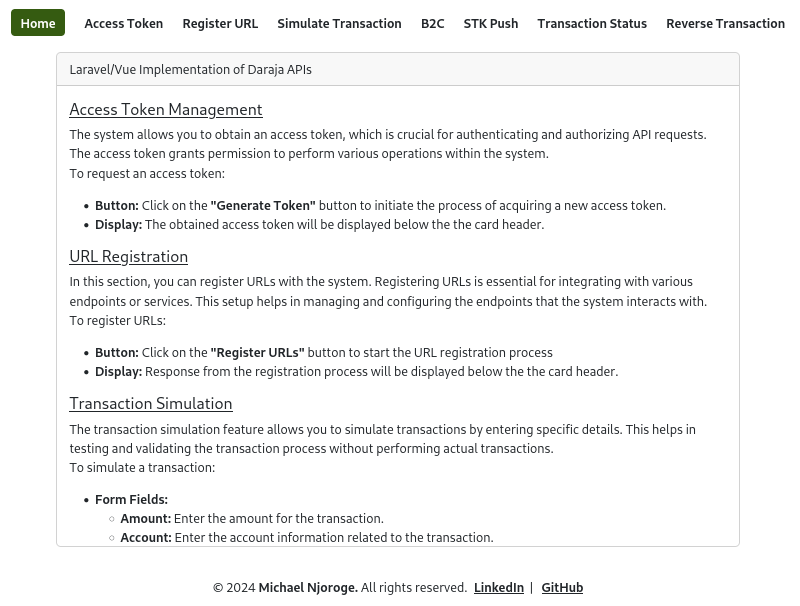
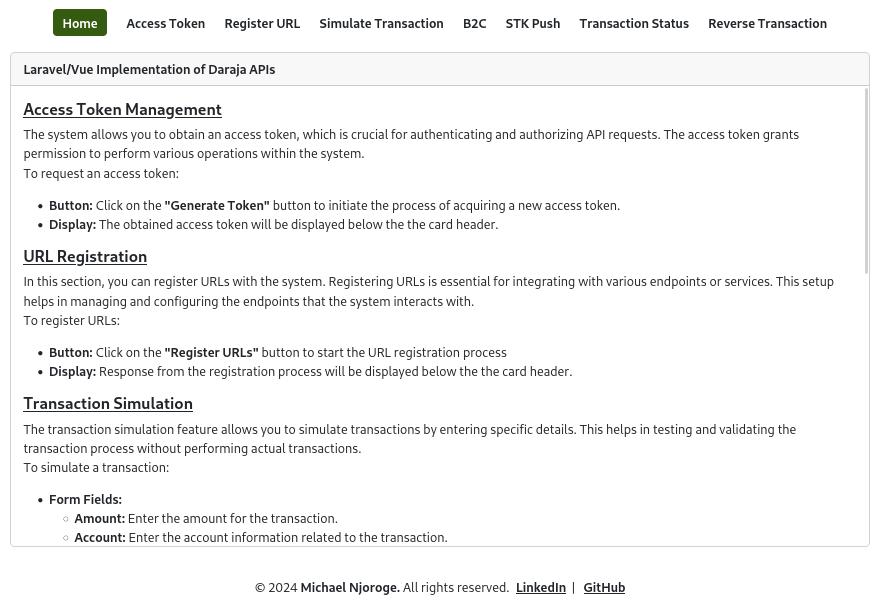
final commit on intergration on mpesa-stk apis with vue

diff --git a/src/views/B2CPage.vue b/src/views/B2CPage.vue
@@ -1,8 +1,8 @@
 <template>
   <div class="container">
     <TopNav />
-    <div class="row my-4">
-      <div class="mx-auto col-sm-8">
+    <div class="row my-2">
+      <div class="mx-auto col-sm-10">
         <div class="card">
           <div class="card-header">
             B2C Simulation
@@ -16,21 +16,21 @@
               <div v-else class="alert alert-info text-center">Fill the form and click the button to simulate B2C.</div>
             </div>
             <form @submit.prevent="simulateb2c" id="b2c-form">
-              <div class="form-group my-2">
-                <label for="amount">Amount</label>
-                <input v-model="form.amount" type="number" min="10" name="amount" required class="form-control">
+              <div class="form-group my-3">
+                <label for="amount">Amount:</label>
+                <input v-model="form.amount" type="number" min="10" placeholder="Enter Amount" name="amount" required class="form-control">
               </div>
-              <div class="form-group my-2">
-                <label for="phone">Phone</label>
-                <input v-model="form.phone" type="number" name="phone" disabled class="form-control">
+              <div class="form-group my-3">
+                <label for="phone">Phone:</label>
+                <input v-model="form.phone" type="number" placeholder="xxxx-xxx-xxx" name="phone" disabled class="form-control">
               </div>
-              <div class="form-group my-2">
-                <label for="occasion">Occasion</label>
-                <input v-model="form.occasion" type="text" name="occasion" required class="form-control">
+              <div class="form-group my-3">
+                <label for="occasion">Occasion:</label>
+                <input v-model="form.occasion" type="text" placeholder="Enter Sample Occasion" name="occasion" required class="form-control">
               </div>
-              <div class="form-group my-2">
-                <label for="remarks">Remarks</label>
-                <input v-model="form.remarks" type="text" name="remarks" required class="form-control">
+              <div class="form-group my-3">
+                <label for="remarks">Remarks:</label>
+                <input v-model="form.remarks" type="text" placeholder="Enter Sample Remark" name="remarks" required class="form-control">
               </div>
               <button id="simulateb2c" type="submit" class="btn btn-primary w-100 mt-2" :disabled="isLoading">
                 <div v-if="isLoading" class="text-center">
@@ -93,4 +93,7 @@
     white-space: pre-wrap;
     word-wrap: break-word;
   }
+   label,.card-header{
+    font-weight: bold;
+}
 </style>

diff --git a/src/views/STKPage.vue b/src/views/STKPage.vue
@@ -1,8 +1,8 @@
 <template>
   <div class="container">
     <TopNav />
-    <div class="row my-4">
-      <div class="mx-auto col-sm-8">
+    <div class="row my-2">
+      <div class="mx-auto col-sm-10">
         <div class="card">
           <div class="card-header">
             STK Simulation
@@ -16,17 +16,17 @@
               <div v-else class="alert alert-info text-center">Fill the form and click the button to receive STK prompt.</div>
             </div>
             <form @submit.prevent="simulateSTK" id="stk-form">
-              <div class="form-group my-2">
-                <label for="phone">Phone</label>
-                <input v-model="form.phone" type="number" name="phone" class="form-control" required>
+              <div class="form-group my-3">
+                <label for="phone">Phone:</label>
+                <input v-model="form.phone" type="number" placeholder="Enter Phone No." name="phone" class="form-control" required>
               </div>
-              <div class="form-group">
-                <label for="amount">Amount</label>
-                <input v-model="form.amount" type="number" name="amount" class="form-control" required>
+              <div class="form-group my-3">
+                <label for="amount">Amount:</label>
+                <input v-model="form.amount" type="number" placeholder="Enter Amount" name="amount" class="form-control" required>
               </div>
-              <div class="form-group my-2">
-                <label for="account">Account</label>
-                <input v-model="form.account" type="text" name="account" class="form-control" required>
+              <div class="form-group my-3">
+                <label for="account">Account:</label>
+                <input v-model="form.account" type="text" name="account" placeholder="Enter Account No." class="form-control" required>
               </div>
               <button id="simulatestk" type="submit" class="btn btn-primary w-100 mt-2" :disabled="isLoading">
                 <div v-if="isLoading" class="text-center">
@@ -88,4 +88,7 @@
     white-space: pre-wrap;
     word-wrap: break-word;
   }
+  label,.card-header{
+    font-weight: bold;
+}
 </style>

diff --git a/src/views/SimulateTransaction.vue b/src/views/SimulateTransaction.vue
@@ -1,9 +1,9 @@
 <template>
 <div class="container">
         <TopNav />
-        <div class="row mt-4">
-            <div class="mx-auto col-sm-8">
-             <div class="card my-4">
+        <div class="row mt-2">
+            <div class="mx-auto col-sm-10">
+             <div class="card my-2">
                 <div class="card-header">
                    Simulate Transaction
                 </div>
@@ -16,13 +16,13 @@
                         <div v-else class="alert alert-info text-center">Fill the Form and Click the button to Simulate Transaction.</div>
                     </div>
                     <form action="" @submit.prevent="simulateTransaction">
-                        <div class="form-group">
-                            <label for="amount">Amount</label>
-                            <input v-model="form.amount" type="number" name="amount" class="form-control" required>
+                        <div class="form-group my-3">
+                            <label for="amount">Amount:</label>
+                            <input v-model="form.amount" type="number" placeholder="Enter Amount" name="amount" class="form-control" required>
                         </div>
-                         <div class="form-group my-2">
-                            <label for="account">Account</label>
-                            <input v-model="form.account" type="text" name="account" class="form-control" required>
+                         <div class="form-group my-3">
+                            <label for="account">Account:</label>
+                            <input v-model="form.account" type="text" placeholder="Enter Account No." name="account" class="form-control" required>
                         </div>
                         <button type="submit" id="simulate" class="btn btn-primary w-100 mt-2" :disabled="isLoading">
                             <div v-if="isLoading" class="text-center">
@@ -78,4 +78,8 @@ const formattedResponse = computed(() => {
 
 </script>
 
-<style scoped></style>
+<style scoped>
+  label,.card-header{
+    font-weight: bold;
+}
+</style>

diff --git a/src/views/ReversalTransaction.vue b/src/views/ReversalTransaction.vue
@@ -1,8 +1,8 @@
 <template>
   <div class="container">
     <TopNav />
-    <div class="row my-4">
-      <div class="mx-auto col-sm-8">
+    <div class="row my-2">
+      <div class="mx-auto col-sm-10">
         <div class="card">
           <div class="card-header">
             Reverse Transaction
@@ -16,13 +16,13 @@
               <div v-else class="alert alert-info text-center">Fill the form and click the button to reverse transaction.</div>
             </div>
             <form @submit.prevent="reverseTransaction" id="stk-form">
-              <div class="form-group my-2">
-                <label for="transactionid">Transaction Id</label>
-                <input v-model="form.transactionid" type="text" name="transactionid" class="form-control" required>
+              <div class="form-group my-3">
+                <label for="transactionid">Transaction Id:</label>
+                <input v-model="form.transactionid" type="text" placeholder="Enter Transaction Id" name="transactionid" class="form-control" required>
               </div>
-              <div class="form-group my-2">
-                <label for="amount">Amount</label>
-                <input v-model="form.amount" type="number" name="amount" class="form-control" required>
+              <div class="form-group my-3">
+                <label for="amount">Amount:</label>
+                <input v-model="form.amount" type="number" name="amount" placeholder="Enter Amount" class="form-control" required>
               </div>
               <button id="simulatestk" type="submit" class="btn btn-primary w-100 mt-2" :disabled="isLoading">
                 <div v-if="isLoading" class="text-center">
@@ -82,5 +82,8 @@
   .text-center pre {
     white-space: pre-wrap;
     word-wrap: break-word;
+  }
+  label,.card-header{
+    font-weight: bold;
   }
 </style>

diff --git a/src/views/TransactionStatus.vue b/src/views/TransactionStatus.vue
@@ -1,8 +1,8 @@
 <template>
   <div class="container">
     <TopNav />
-    <div class="row my-4">
-      <div class="mx-auto col-sm-8">
+    <div class="row my-2">
+      <div class="mx-auto col-sm-10">
         <div class="card">
           <div class="card-header">
             Transaction Status
@@ -17,8 +17,8 @@
             </div>
             <form @submit.prevent="transactionStatus" id="stk-form">
               <div class="form-group my-2">
-                <label for="transactionid">Transaction Id</label>
-                <input v-model="form.transactionid" type="text" name="transactionid" class="form-control" required>
+                <label for="transactionid">Transaction Id:</label>
+                <input v-model="form.transactionid" type="text" placeholder="Enter Transaction Id" name="transactionid" class="form-control" required>
               </div>
               <button id="simulatestk" type="submit" class="btn btn-primary w-100 mt-2" :disabled="isLoading">
                 <div v-if="isLoading" class="text-center">
@@ -78,4 +78,7 @@
     white-space: pre-wrap;
     word-wrap: break-word;
   }
+  label,.card-header{
+    font-weight: bold;
+}
 </style>

diff --git a/src/views/HomePage.vue b/src/views/HomePage.vue
@@ -2,7 +2,7 @@
 <div class="container">
         <TopNav />
         <div class="row mt-2">
-            <div class="mx-auto col-sm-8">
+            <div class="mx-auto col-sm-10">
             <div class="card">
                 <div class="card-header">
                     Laravel/Vue Implementation of Daraja APIs
@@ -81,9 +81,9 @@
 
                   <!-- Regards -->
                   <p class="mt-4 d-flex flex-column">
-                    Best regards,
+                    <b>Best regards,</b>
                     <a style="text-decoration: none;" href="mailto:mikethecoder12@gmail.com" target="_blank">mikethecoder12@gmail.com</a>
-                    Michael Njoroge
+                    <b>Michael Njoroge</b>
                   </p>
 
                 </div>
@@ -101,6 +101,7 @@
 <style scoped>
   .sub-title{
     text-decoration: underline;
+    font-weight: bold;
   }
   .scrollable-content {
     max-height: 575px;
@@ -109,4 +110,7 @@
   a:hover{
     text-decoration: underline;
   }
+.card-header{
+    font-weight: bold;
+}
 </style>

diff --git a/src/views/RegisterURL.vue b/src/views/RegisterURL.vue
@@ -2,7 +2,7 @@
   <div class="container ">
     <TopNav />
     <div class="row mt-2">
-      <div class="mx-auto col-sm-8 h-50">
+      <div class="mx-auto col-sm-10 h-50">
         <div class="card">
           <div class="card-header">
             Register URL
@@ -69,4 +69,7 @@ const formattedResponse = computed(() => {
     white-space: pre-wrap; 
     word-wrap: break-word;
   }
+label,.card-header{
+    font-weight: bold;
+}
 </style>

diff --git a/src/views/AccessToken.vue b/src/views/AccessToken.vue
@@ -2,7 +2,7 @@
   <div class="container">
     <TopNav />
     <div class="row mt-2">
-      <div class="mx-auto col-sm-8">
+      <div class="mx-auto col-sm-10">
         <div class="card">
           <div class="card-header">
             Obtain Access Token
@@ -73,4 +73,7 @@
     white-space: pre-wrap; 
     word-wrap: break-word;
   }
+.card-header{
+    font-weight: bold;
+}
 </style>
